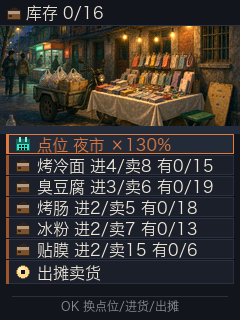
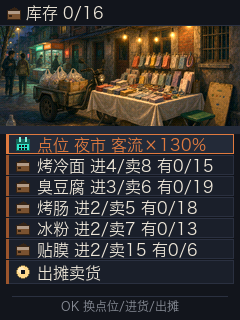
fix(折叠北京): 摆摊点位写明「客流×」，杜绝价格倍率误解
玩家反馈看不懂「点位 夜市 ×130%」，还问哪里进货便宜卖出贵。
查下来八个点位的进价卖价其实完全一样（k_items 固定表，fb_buy_item /
fb_run_market 都不读 spot），×号乘的是当日需求客流。
原写法不说乘的是什么，读成价格倍率是合理误解。
加「客流」两字，字符集已覆盖，不重生成字体，不动任何数值。

Changed region(s): [[0.4667, 0.4062, 0.875, 0.5], [0.175, 0.4062, 0.4375, 0.5]]

diff --git a/main/fb_app.c b/main/fb_app.c
@@ -700,8 +700,11 @@ static void render_market(fb_app_t *app, xm_view_t *v) {
 
     /* 7 项要塞进 134..284：每项 21 行距（20 高），出摊卡 24 高。
      * 早先 24 行距 + 5 货 + 出摊 = 150，加上点位行就压到提示行了。 */
+    /* ×号必须写明乘的是客流（今天最多能卖几份），不是进价/卖价。
+     * 玩家把「夜市 ×130%」读成「这里卖得贵」是合理误解 ——
+     * 八个点位的进价卖价其实一模一样，货品行才写着价格。 */
     draw_card(app, v, 6, 134, 228, 20, app->sel == 0, true, FB_ICO_CAL,
-              pool_put(app, "点位 %s ×%u%%", spots[spot].name,
+              pool_put(app, "点位 %s 客流×%u%%", spots[spot].name,
                        spots[spot].bias_pct));
 
     for (uint8_t i = 0; i < (uint8_t)n; ++i) {
